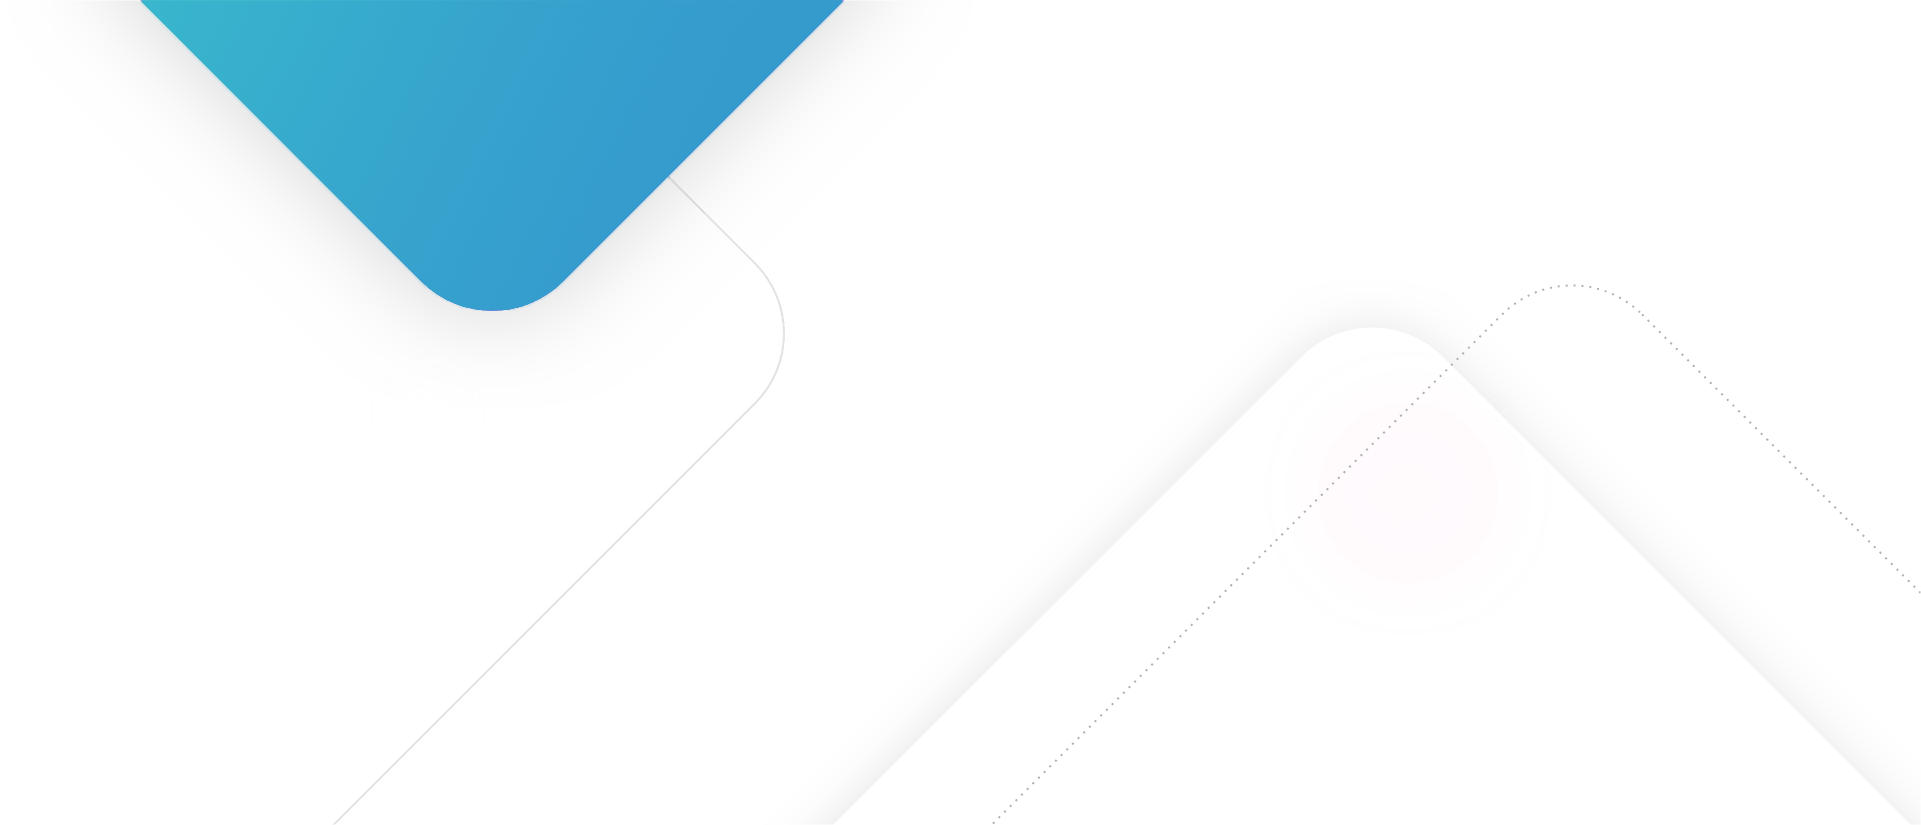
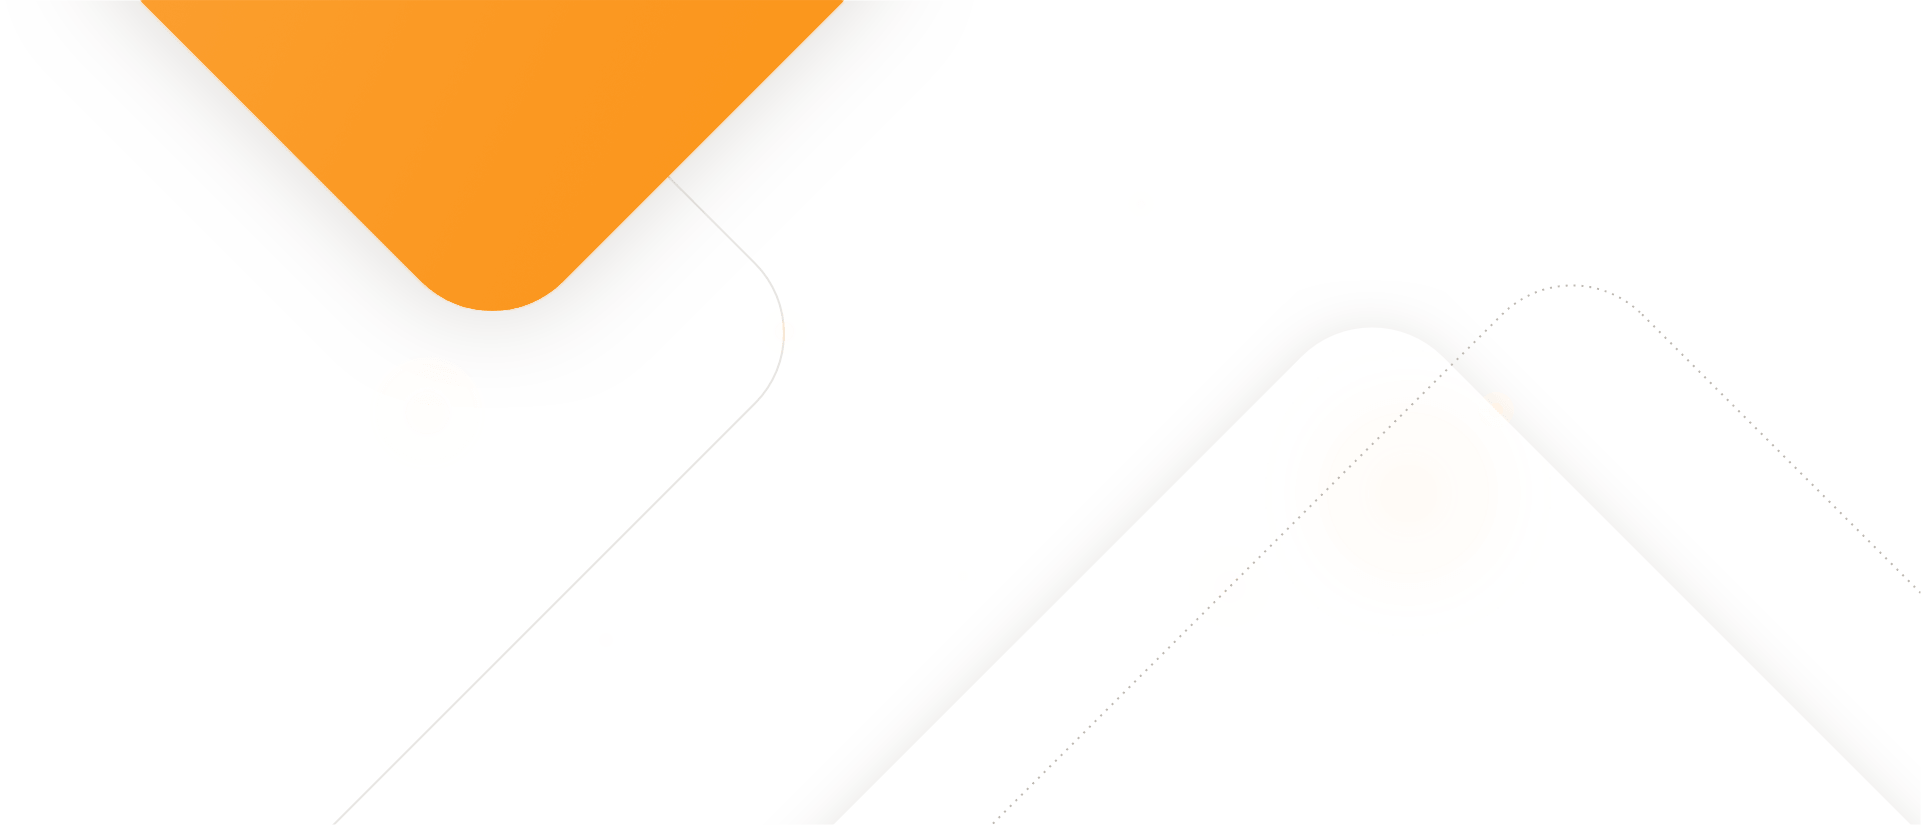
add new image

Changed region(s): [[0.0625, 0.0, 0.4373, 0.3939]]

diff --git a/src/assets/css/style.css b/src/assets/css/style.css
@@ -9,6 +9,20 @@ body {
   background-color: #fff;
 }
 
+/* redio button css */
+/* .radio-group label > input[type="checkbox"]:checked {
+  background: orange;
+  height: 33px;
+  padding-left: 24px;
+  border-radius: 69px;
+  border: 1px solid;
+} */
+/* close */
+
+.forgot{
+  color: #ff7e01 !important;
+}
+
 /* button YES NO CSS start */
 
 .ques {
@@ -66,7 +80,7 @@ body {
   height: 100px;
   width: 150px !important;
   /* border-radius: 100px; */
-  background-color:orange;
+  background-color:#fd900f;
   /* background-color: #ff6418; */
   transform: translateX(-160px);
   transition: all 0.4s ease-in-out; 
@@ -1702,7 +1716,9 @@ textarea {
 .slider.round {
   border-radius: 34px;
   border: 1px solid rgb(190, 169, 48);
+  /* margin-right: -12px; */
 }
+
 label {
   position: absolute;
   left: 8px;
@@ -1909,7 +1925,7 @@ body.modal-open {
   top: 0px;
   left: 0;
   width: 100%;
-  color: #d3d3d3;
+  color: black;
   transition: 0.2s all;
   cursor: text;
 }
@@ -1950,8 +1966,14 @@ body.modal-open {
 .query_form textarea:valid ~ label {
   font-size: 14px;
   top: -20px;
-  color: #555;
+  color: black;
 }
+
+
+.modal{
+  margin-left: 67px !important;
+
+} 
 
 .query_modal .modal-title {
   text-align: center;
@@ -1978,7 +2000,7 @@ body.modal-open {
 }
 
 .modal-header .close span {
-  position: absolute;
+  /* position: absolute;
   top: -2px;
   left: 2px;
   font-size: 30px;
@@ -1986,6 +2008,14 @@ body.modal-open {
   font-weight: normal;
   width: 40px;
   height: 40px;
+  opacity: 1; */
+  position: absolute;
+  top: -2px;
+  left: -5px;
+  font-size: 36px;
+  line-height: 51px;
+  font-weight: normal;
+  width: 40px;
   opacity: 1;
 }
 
@@ -2027,7 +2057,7 @@ body.modal-open {
 
 .login_txt a {
 
-  color: #ff9000 !important;
+  color: #ff7e01 !important;
     line-height: 0.5;
     padding: 7px;
 }
